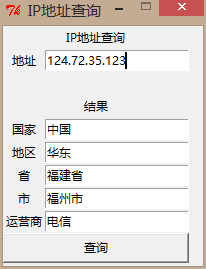
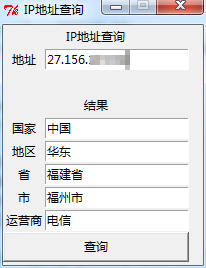
[IP Query]修正IP查询的BUG

diff --git a/ip_query/ip_query.py b/ip_query/ip_query.py
@@ -1,5 +1,6 @@
 #coding=utf8
 
+import re
 import json
 import urllib2
 import threading
@@ -58,7 +59,7 @@ class App(Frame):
     def on_complete(self, event):
         self.query_btn['state'] = NORMAL
         data = self.q.get()
-        if data.get('code',-1) == 0:
+        if data and data.get('code',-1) == 0:
             address_dict = data['data']
             for i in self.item[0:5]:
                 self.data[i].set(address_dict[i])
@@ -72,15 +73,15 @@ class App(Frame):
         req = urllib2.Request(url)
         try:
             response_str = urllib2.urlopen(req)
-            if responseStr:
+            if response_str:
                 res = json.load(response_str)           
-        except Exception:
-            pass
+        except Exception as e:
+            print str(e)
         self.q.put(res)
         try:
             self.event_generate(Event.REQUEST_COMPLETE, when='tail')
-        except TclError:
-            pass
+        except TclError as e:
+            print str(e)
 
 
 def main():
